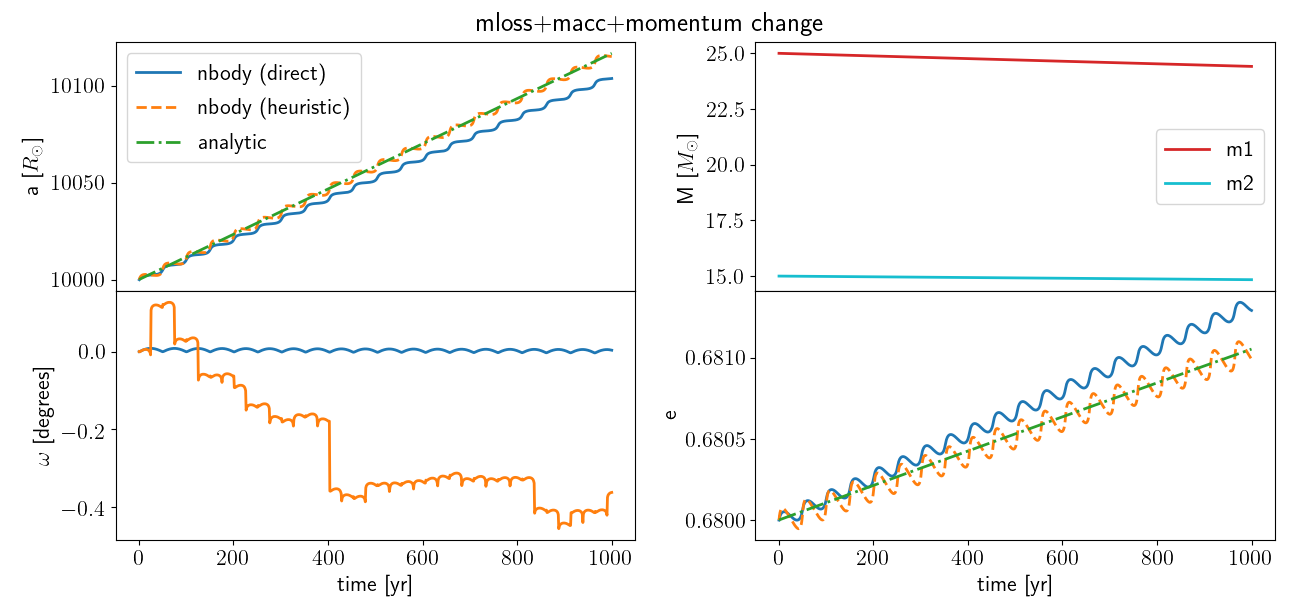
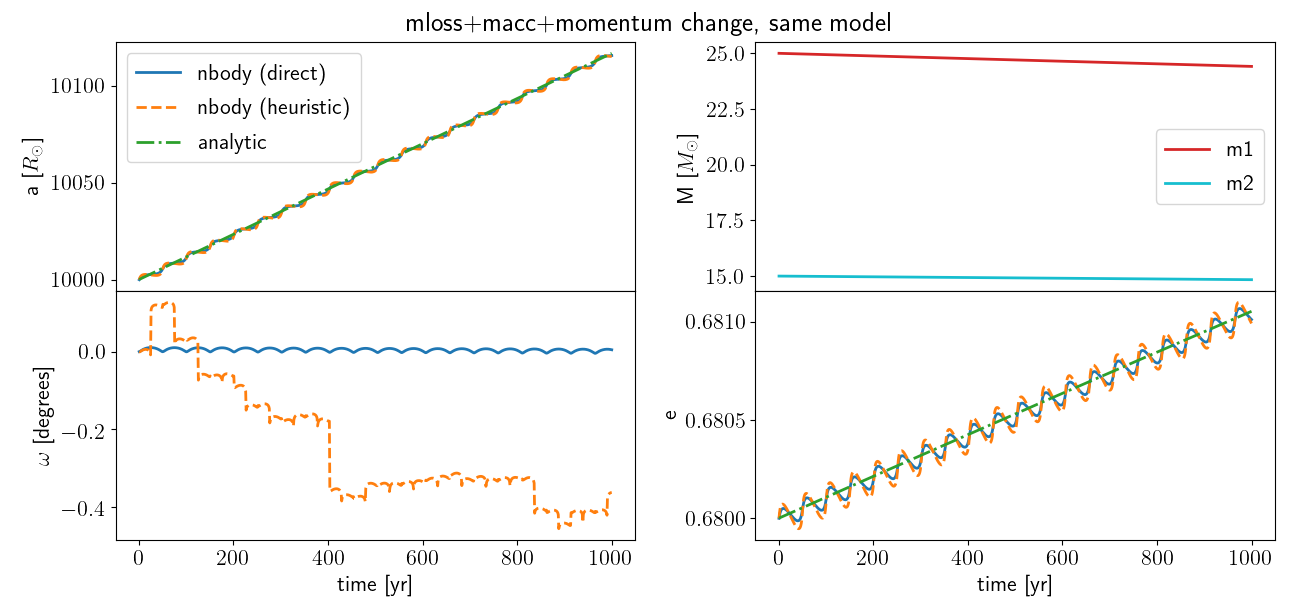
fixed bug

diff --git a/src/testing_discrepancy.py b/src/testing_discrepancy.py
@@ -1,0 +1,214 @@
+#!/usr/bin/env python3
+from amuse.units import units, constants, nbody_system
+from amuse.ext.orbital_elements import new_binary_from_orbital_elements
+from amuse.ext.orbital_elements import orbital_elements_from_binary
+from amuse.community.hermite.interface import Hermite
+import numpy
+
+from dynbin_common import (
+    make_binary_star, new_option_parser,
+    mass_loss_rate, dadt_masschange, dedt_masschange,
+)
+
+
+def dmdt_acc(dmlossdt):
+    alpha = 0.9
+    dmacc = (alpha - 1) * dmlossdt
+    return dmacc[::-1]
+
+def dhdt_momentum_secular(h, mass, dmdtacc):
+    # Assuming dVth1/V = -dm1/m1
+    dhdt = -h * (dmdtacc[0] / mass[0] + dmdtacc[1] / mass[1])
+    return dhdt
+
+def dEdt_momentum_secular(h, E, mass, dmdtacc):
+    # Assuming dVth1/V = -dm1/m1
+    mtot = mass.sum()
+    dEdt = -(dmdtacc[0] / mass[0] + dmdtacc[1] / mass[1]) * h/(constants.G*mtot) * (-2*E)**1.5
+    return dEdt
+
+def h_from_stars(stars):
+    pos = stars[1].position - stars[0].position
+    vel = stars[1].velocity - stars[0].velocity
+
+    h = pos.cross(vel)
+    return h.length()
+
+def E_from_stars(stars):
+    pos = stars[1].position - stars[0].position
+    vel = stars[1].velocity - stars[0].velocity
+
+    r = pos.length()
+    v2 = vel.length_squared()
+
+    E = 0.5*v2 - constants.G*stars.mass.sum()/r
+    return E
+
+def dadt_momentum_debug(a, e, mass, dmdtacc):
+    # Assuming dVth1/V = -dm1/m1
+    dadt = -a * (dmdtacc[0] / mass[0] + dmdtacc[1] / mass[1]) * 2 * (1 - e * e) ** 0.5
+    return dadt
+
+def dedt_momentum_debug(a, dadt, e, mass, dmdtacc):
+    # Assuming dVth1/V = -dm1/m1
+    dedt = dadt/a - 2 * (dmdtacc[0] / mass[0] + dmdtacc[1] / mass[1])
+    dedt = dedt * 0.5*(1-e*e)/e
+    return dedt
+
+def dedt_momentum_old(e, mass, dmdtacc):
+    # Assuming dVth1/V = -dm1/m1
+    ome2 = 1 - e * e
+    dedt = - (dmdtacc[0] / mass[0] + dmdtacc[1] / mass[1]) * ((1 - e * e) ** 0.5 - 1) * (ome2 / e)
+    return dedt
+
+def kick_from_accretion(stars, dmdtacc, dt):
+    # Assuming dVth1/Vth = -dm1/m1
+    stars.move_to_center()
+
+    pos = stars[1].position - stars[0].position
+    vel = stars[1].velocity - stars[0].velocity
+    r = pos.length()
+    v = vel.length()
+
+    rvec = pos / r
+    rdot = (rvec * vel).sum() * rvec
+    vth = vel - rdot
+    vth_mag = vth.length()
+    vth_vec = vth / vth_mag
+
+    accth_mag = -vth_mag * dmdtacc / stars.mass
+    kick0 = -vth_vec * accth_mag[0] * dt
+    kick1 = vth_vec * accth_mag[1] * dt
+
+    stars[0].velocity += kick0
+    stars[1].velocity += kick1
+
+def evolve_model(end_time, double_star, stars):
+    time = 0 | units.yr
+    dt = 0.5 * end_time / 1000. * 2
+
+    converter = nbody_system.nbody_to_si(double_star.mass,
+                                         double_star.semimajor_axis)
+
+    gravity = Hermite(converter)
+    gravity.particles.add_particle(stars)
+    to_stars = gravity.particles.new_channel_to(stars)
+    from_stars = stars.new_channel_to(gravity.particles)
+
+    period = (
+            2 * numpy.pi
+            * (
+                    double_star.semimajor_axis * double_star.semimajor_axis * double_star.semimajor_axis
+                    / (constants.G * double_star.mass)
+            ).sqrt()
+    )
+    print("Period =", period.as_string_in(units.yr))
+    print("Mass loss timestep =", dt)
+    print("Steps per period: = {:1.2f}".format(period / dt))
+
+    E_an = [] | (units.km/units.s)**2
+    h_an = [] | units.km**2/units.s
+    Etemp = -double_star.mass*constants.G / (2*double_star.semimajor_axis)
+    htemp = (double_star.mass*constants.G*double_star.semimajor_axis*
+             (1-double_star.eccentricity*double_star.eccentricity))**0.5
+
+    E_num = [] | (units.km/units.s)**2
+    h_num = [] | units.km**2/units.s
+    m1 = [] | units.MSun
+    m2 = [] | units.MSun
+    t = [] | units.yr
+    t_an = [] | units.yr
+    dt_an = period*2.5
+    time_an = 0 | units.yr
+    while time < end_time:
+        time += dt
+        gravity.evolve_model(time)
+
+        to_stars.copy()
+
+        dmdtloss = mass_loss_rate(stars.mass)
+        dmdtacc = dmdt_acc(dmdtloss)
+
+        orbital_elements = orbital_elements_from_binary(stars,
+                                                        G=constants.G)
+
+        h = h_from_stars(stars)
+        E = E_from_stars(stars)
+
+        if time > time_an:
+            #atemp = orbital_elements[2]
+            #htemp = h
+            E_an.append(Etemp)
+            h_an.append(htemp)
+            t_an.append(time)
+
+            dEdt = dEdt_momentum_secular(htemp, Etemp, stars.mass, dmdtacc)
+            dhdt = dhdt_momentum_secular(htemp, stars.mass, dmdtacc)
+            Etemp = Etemp + dEdt * dt_an
+            htemp = htemp + dhdt * dt_an
+            E_an.append(Etemp)
+            h_an.append(htemp)
+            t_an.append(time+dt_an)
+            time_an += dt_an
+
+        kick_from_accretion(stars, dmdtacc, dt)
+
+        #stars.mass += (dmdtloss + dmdtacc) * dt
+        #stars2.mass += (dmdtloss + dmdtacc) * dt
+
+        from_stars.copy()
+
+        h_num.append(h)
+        E_num.append(E)
+        m1.append(stars[0].mass)
+        m2.append(stars[1].mass)
+        t.append(time)
+        print("time=", time.in_(units.yr),
+              "h=", h.in_(units.km**2/units.s),
+              "E=", E.in_((units.km/units.s)**2),
+              "m=", stars.mass.in_(units.MSun), end="\r")
+    gravity.stop()
+
+    from matplotlib import pyplot
+    pyplot.rc('text', usetex=True)
+    pyplot.rcParams.update({ 'font.size': 16 })
+    fig, axis = pyplot.subplots(nrows=2, ncols=2, sharex=True, figsize=(13, 6))
+    axis[0][0].plot(t.value_in(units.yr), E_num.value_in((units.km/units.s)**2), label="nbody (direct)", lw=2)
+    axis[0][0].plot(t_an.value_in(units.yr), E_an.value_in((units.km/units.s)**2), label="analytic", lw=2, ls="-.")
+    axis[0][0].set_ylabel("E [km/s]")
+    axis[0][0].legend()
+
+    axis[0][1].plot(t.value_in(units.yr), m1.value_in(units.MSun), label="m1", lw=2, c="tab:red")
+    axis[0][1].plot(t.value_in(units.yr), m2.value_in(units.MSun), label="m2", lw=2, c="tab:cyan")
+    axis[0][1].set_ylabel("M [$M_\odot$]")
+    axis[0][1].legend()
+
+    axis[1][1].plot(t.value_in(units.yr), h_num.value_in(units.km**2/units.s), lw=2)
+    axis[1][1].plot(t_an.value_in(units.yr), h_an.value_in(units.km**2/units.s), lw=2, ls="-.")
+    axis[1][1].set_ylabel("h [km$^2$/s]")
+
+    #axis[1][0].plot(t.value_in(units.yr), ome, lw=2, label="nbody (direct)")
+    #axis[1][0].set_ylabel("$\omega$ [degrees]")
+
+    axis[1][1].set_xlabel("time [yr]")
+    axis[1][0].set_xlabel("time [yr]")
+
+    pyplot.tight_layout()
+    pyplot.subplots_adjust(hspace=0, top=0.93, bottom=0.1)
+
+    pyplot.suptitle("mloss+macc+momentum change, same model")
+    pyplot.savefig("debug.png")
+    pyplot.show()
+
+
+def main():
+    o, arguments = new_option_parser().parse_args()
+    double_star, stars = make_binary_star(
+        o.mprim, o.msec, o.semimajor_axis, o.eccentricity,
+    )
+    end_time = 1000.0 | units.yr
+    evolve_model(end_time, double_star, stars)
+
+
+if __name__ == "__main__":
+    main()

diff --git a/src/direct_vs_heuristic.py b/src/direct_vs_heuristic.py
@@ -66,7 +66,7 @@ def kick_from_accretion(stars, dmdtacc, dt):
     vth_mag = vth.length()
     vth_vec = vth / vth_mag
 
-    accth_mag = -v * dmdtacc / stars.mass
+    accth_mag = -vth_mag * dmdtacc / stars.mass
     kick0 = -vth_vec * accth_mag[0] * dt
     kick1 = vth_vec * accth_mag[1] * dt
 
@@ -100,15 +100,15 @@ def dhdt_dadt_to_kick(stars, dhdt, dadt, dmdt, dt):
     # removing contribution from mass loss
     dadt_corrected = dadt + a * (dmdt[0] + dmdt[1]) / mtot
 
-    rdot_acc = 0.5 * dadt_corrected * constants.G * mtot / (a * a) - dhdt * vth_mag/r
+    rdot_acc = 0.5 * dadt_corrected * constants.G * mtot / (a * a) - dhdt * vth_mag / r
     rdot_acc = rdot_acc / rdot_mag
 
     vth_kick = vth_acc * dt * vth_vec
     rdot_kick = rdot_acc * dt * rdot_vec
 
-    totkick = vth_kick+rdot_kick
-    kick0 = -stars.mass[1]/mtot * totkick
-    kick1 = stars.mass[0]/mtot * totkick
+    totkick = vth_kick + rdot_kick
+    kick0 = -stars.mass[1] / mtot * totkick
+    kick1 = stars.mass[0] / mtot * totkick
 
     stars[0].velocity += kick0
     stars[1].velocity += kick1
@@ -172,6 +172,8 @@ def evolve_model(end_time, double_star, stars):
                                                         G=constants.G)
         orbital_elements2 = orbital_elements_from_binary(stars2,
                                                          G=constants.G)
+        # etemp = orbital_elements[3]
+        # atemp = orbital_elements[2]
 
         dadt = dadt_masschange(atemp, stars.mass, dmdtloss + dmdtacc)
         dedt = dedt_masschange(etemp, stars.mass, dmdtloss + dmdtacc)
@@ -233,7 +235,7 @@ def evolve_model(end_time, double_star, stars):
     axis[1][1].set_ylabel("e")
 
     axis[1][0].plot(t.value_in(units.yr), ome, lw=2, label="nbody (direct)")
-    axis[1][0].plot(t.value_in(units.yr), ome2, lw=2, label="nbody (heuristic)")
+    axis[1][0].plot(t.value_in(units.yr), ome2, lw=2, ls="--", label="nbody (heuristic)")
     axis[1][0].set_ylabel("$\omega$ [degrees]")
 
     axis[1][1].set_xlabel("time [yr]")
